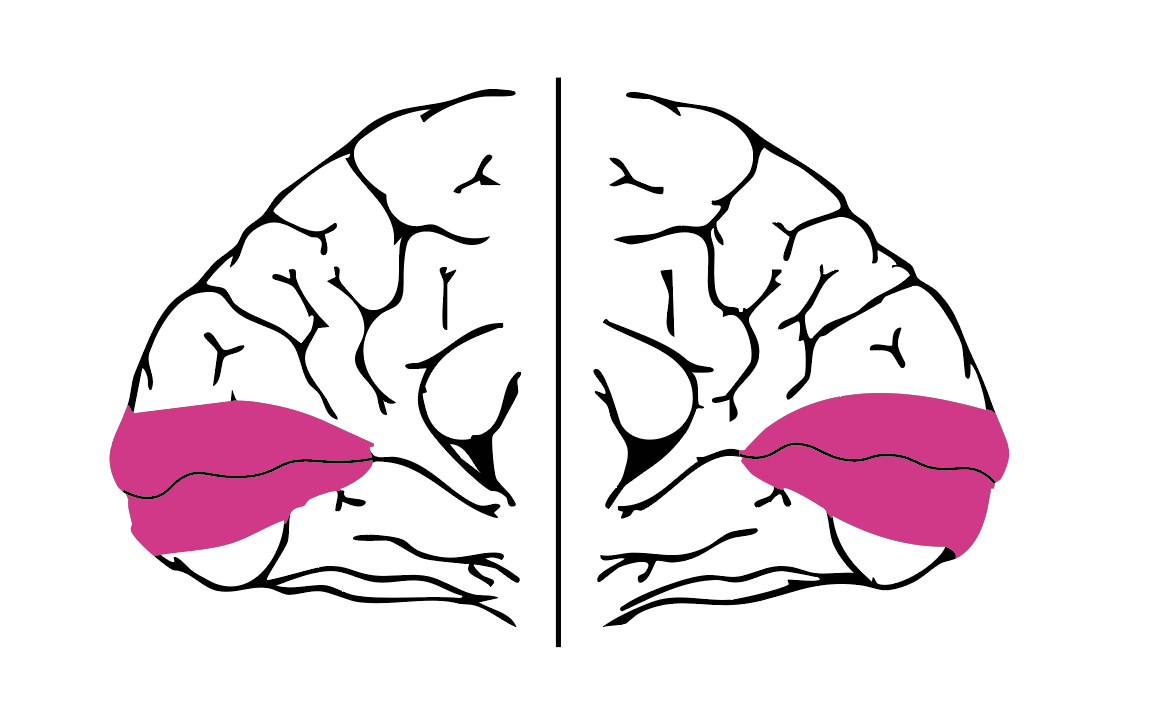
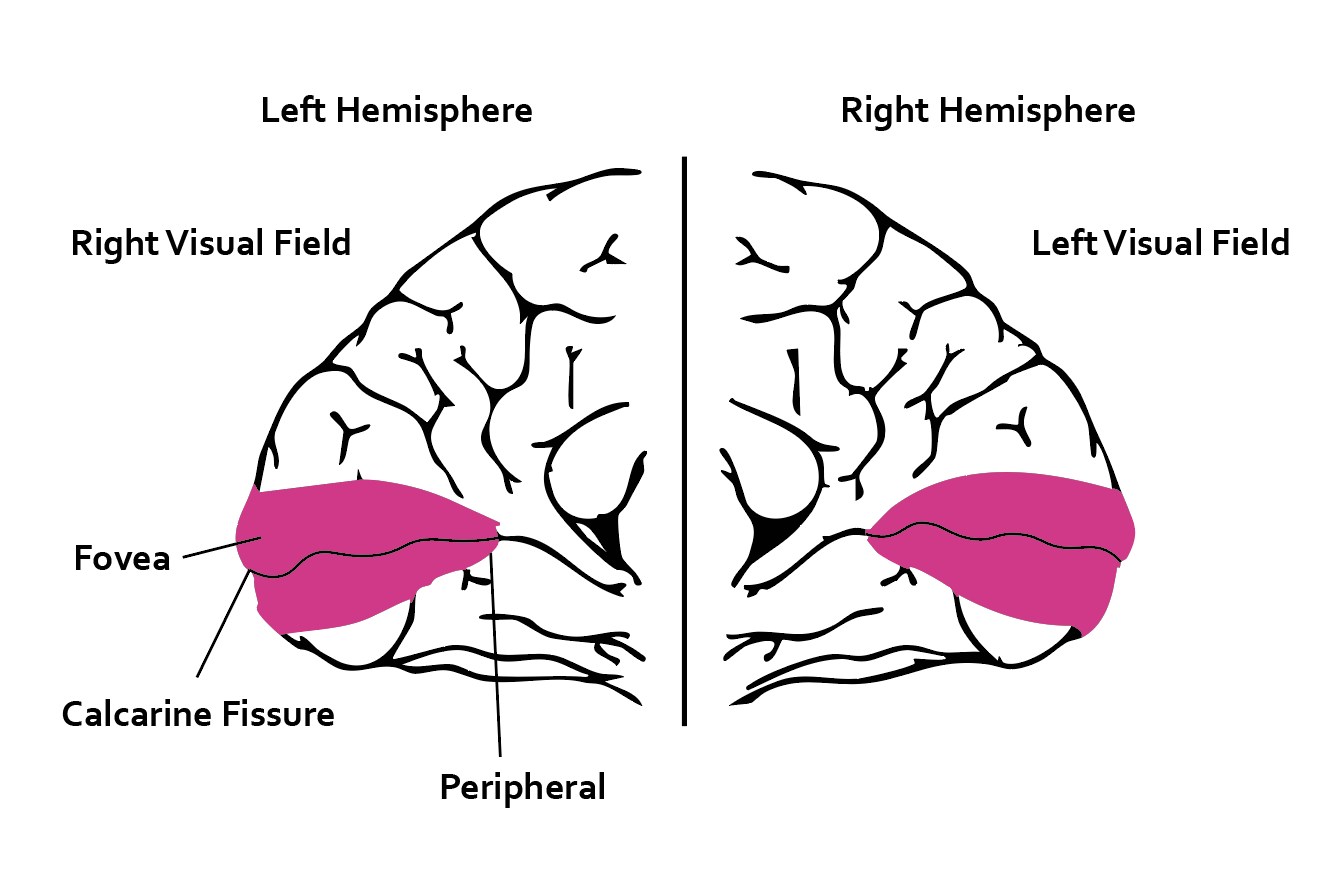
feat: save annotated image and remove programmatic labels
Save user-labeled base image and eliminate label drawing code.

Changed region(s): [[0.0308, 0.0921, 0.8638, 0.9205], [0.1851, 0.0921, 0.4319, 0.1841], [0.7712, 0.2455, 0.9871, 0.3068]]

diff --git a/components/calcarine-viewer.tsx b/components/calcarine-viewer.tsx
@@ -258,102 +258,6 @@ export function CalcarineViewer({ matrix }: CalcarineViewerProps) {
     // Scale and draw to display canvas
     ctx.drawImage(offscreen, 0, 0, cw, ch)
 
-    // Add labels OUTSIDE the diagram with leader lines pointing in
-    const midX = cw / 2
-    const fontSize = Math.max(10, cw * 0.02)
-    const smallFontSize = Math.max(8, cw * 0.015)
-    const lineColor = "rgba(255,255,255,0.2)"
-    const labelColor = "rgba(255,255,255,0.45)"
-    const accentColor = "rgba(0, 210, 160, 0.45)"
-
-    ctx.lineWidth = 1
-
-    // "Left" and "Right" hemisphere labels at top
-    ctx.fillStyle = labelColor
-    ctx.font = `${fontSize}px monospace`
-    ctx.textAlign = "center"
-    ctx.fillText("Left", cw * 0.25, fontSize + 4)
-    ctx.fillText("Right", cw * 0.75, fontSize + 4)
-
-    // Calcarine fissure label - positioned at bottom center with leader line up
-    const fissureLabelY = ch - 12
-    const fissureTargetY = ch * 0.51
-    ctx.fillStyle = accentColor
-    ctx.font = `${smallFontSize}px monospace`
-    ctx.textAlign = "center"
-    ctx.fillText("calcarine fissure", midX, fissureLabelY)
-    // Leader line from label up to the fissure area on left hemi
-    ctx.strokeStyle = accentColor
-    ctx.setLineDash([2, 3])
-    ctx.beginPath()
-    ctx.moveTo(midX - 40, fissureLabelY - smallFontSize - 2)
-    ctx.lineTo(cw * 0.3, fissureTargetY)
-    ctx.stroke()
-    // Leader line to right hemi fissure
-    ctx.beginPath()
-    ctx.moveTo(midX + 40, fissureLabelY - smallFontSize - 2)
-    ctx.lineTo(cw * 0.7, fissureTargetY)
-    ctx.stroke()
-    ctx.setLineDash([])
-
-    // Dorsal label - top right corner, leader line to dorsal region
-    const dorsalLabelX = cw - 10
-    const dorsalLabelY = ch * 0.18
-    ctx.fillStyle = labelColor
-    ctx.font = `${smallFontSize}px monospace`
-    ctx.textAlign = "right"
-    ctx.fillText("dorsal", dorsalLabelX, dorsalLabelY)
-    ctx.fillStyle = "rgba(255,255,255,0.22)"
-    ctx.fillText("(lower VF)", dorsalLabelX, dorsalLabelY + smallFontSize + 2)
-    ctx.strokeStyle = lineColor
-    ctx.setLineDash([2, 3])
-    ctx.beginPath()
-    ctx.moveTo(dorsalLabelX - 50, dorsalLabelY + 4)
-    ctx.lineTo(cw * 0.78, ch * 0.38)
-    ctx.stroke()
-    ctx.setLineDash([])
-
-    // Ventral label - bottom right corner, leader line to ventral region
-    const ventralLabelX = cw - 10
-    const ventralLabelY = ch * 0.78
-    ctx.fillStyle = labelColor
-    ctx.font = `${smallFontSize}px monospace`
-    ctx.textAlign = "right"
-    ctx.fillText("ventral", ventralLabelX, ventralLabelY)
-    ctx.fillStyle = "rgba(255,255,255,0.22)"
-    ctx.fillText("(upper VF)", ventralLabelX, ventralLabelY + smallFontSize + 2)
-    ctx.strokeStyle = lineColor
-    ctx.setLineDash([2, 3])
-    ctx.beginPath()
-    ctx.moveTo(ventralLabelX - 50, ventralLabelY - 2)
-    ctx.lineTo(cw * 0.78, ch * 0.62)
-    ctx.stroke()
-    ctx.setLineDash([])
-
-    // Fovea labels - far left and far right edges with leader lines
-    ctx.fillStyle = labelColor
-    ctx.font = `${smallFontSize}px monospace`
-    // Left fovea
-    ctx.textAlign = "left"
-    ctx.fillText("fovea", 6, ch * 0.42)
-    ctx.strokeStyle = lineColor
-    ctx.setLineDash([2, 3])
-    ctx.beginPath()
-    ctx.moveTo(6 + 32, ch * 0.42 + 2)
-    ctx.lineTo(cw * 0.12, ch * 0.48)
-    ctx.stroke()
-    ctx.setLineDash([])
-    // Right fovea
-    ctx.textAlign = "right"
-    ctx.fillText("fovea", cw - 6, ch * 0.42)
-    ctx.strokeStyle = lineColor
-    ctx.setLineDash([2, 3])
-    ctx.beginPath()
-    ctx.moveTo(cw - 6 - 32, ch * 0.42 + 2)
-    ctx.lineTo(cw * 0.88, ch * 0.48)
-    ctx.stroke()
-    ctx.setLineDash([])
-
   }, [matrix, imageLoaded])
 
   return (
